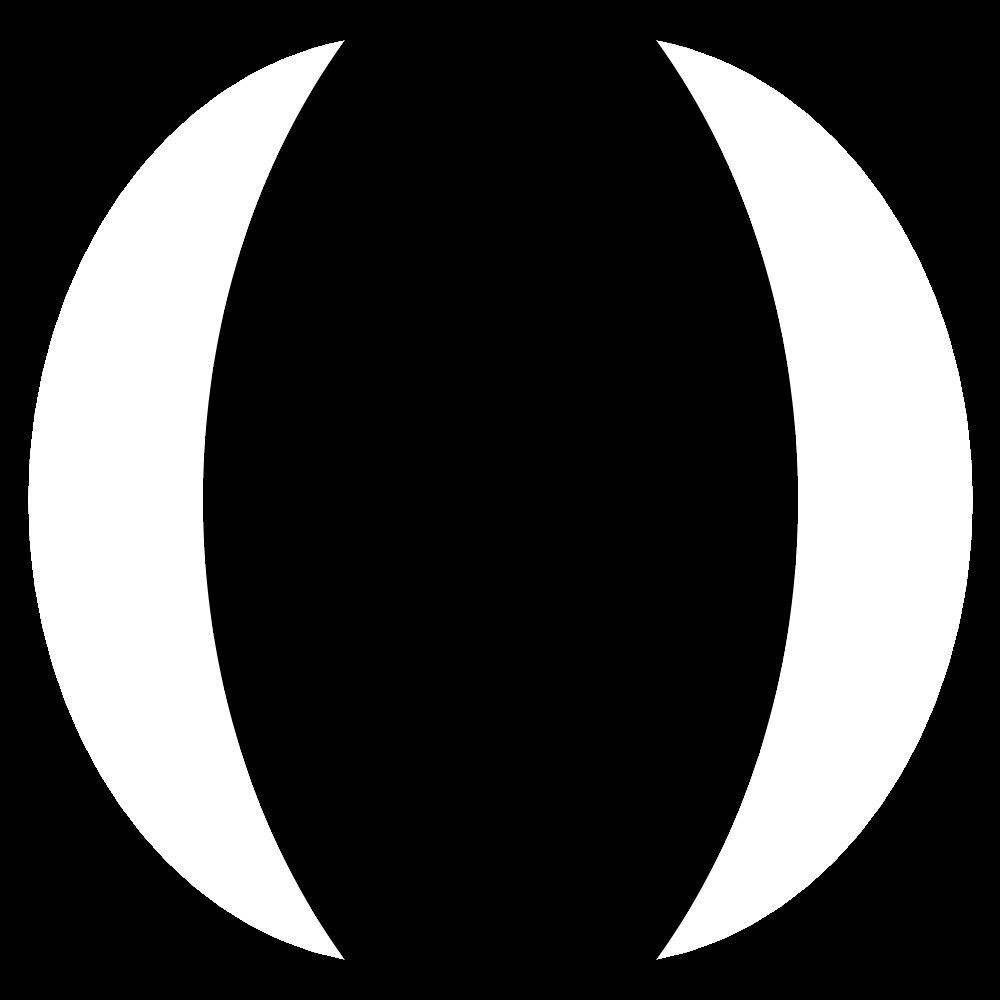
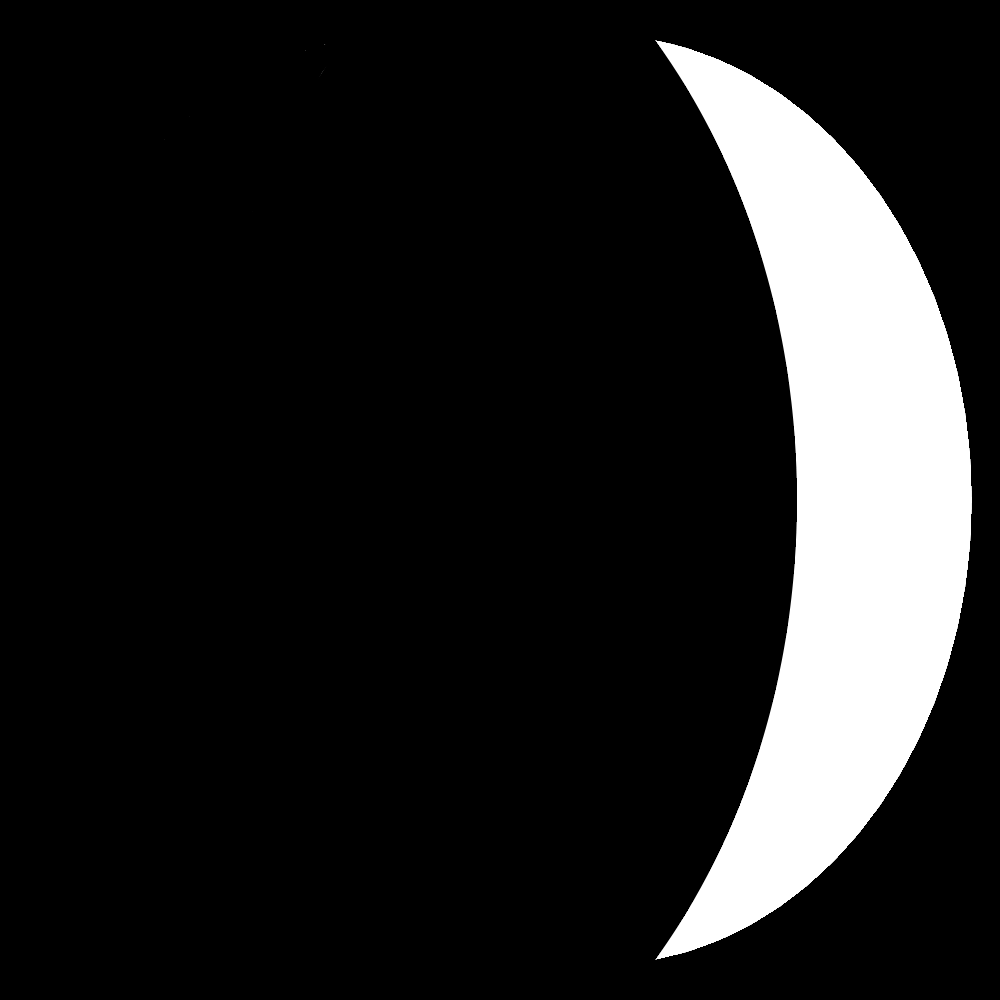
Separe life and stamina quad

Changed region(s): [[0.031, 0.031, 0.341, 0.961]]

diff --git a/Assets/Scripts/Player/PlayerController.cs b/Assets/Scripts/Player/PlayerController.cs
@@ -133,6 +133,7 @@ public class PlayerController : LivingBeing {
     public GameObject ancientPrefab;
     public GameObject aimProjector;
     public MeshRenderer LifeQuad;
+    public MeshRenderer StamiQuad;
 
     [Header("SFXPlayer")]
     AudioSource[] AudioSources;
@@ -469,7 +470,7 @@ public class PlayerController : LivingBeing {
 
     public void UpdateStaminaUI()
     {
-        LifeQuad.material.SetFloat ("_Stamina", stamina / maxStamina);
+        StamiQuad.material.SetFloat ("_Stamina", stamina / maxStamina);
     }
 
     void UseStamina(float _cost)
